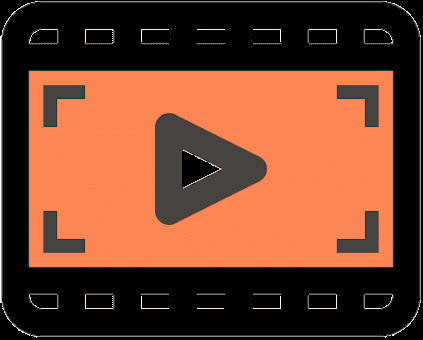
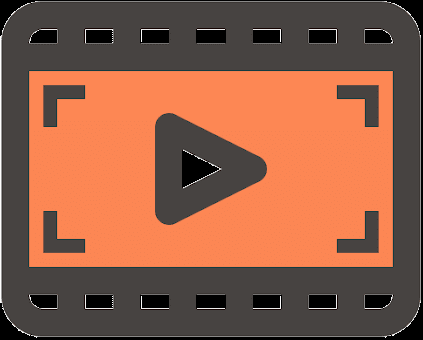
.

diff --git a/src/pages/Home.js b/src/pages/Home.js
@@ -8,16 +8,16 @@ function Home() {
             <div className='home__header A'>
                 <div className='home__headerLeft'>
                     {/* we use link not anchor tag because it does not refresh */}
-                    <img src="img.png" className="IMG" alt=""/>
+                    <img src="img-dark.png" className="IMG" alt=""/>
                     <Link to="/images">Images</Link>
-                    <img src="vid.png" className="IMG" alt=""/>
+                    <img src="vid-dark.png" className="IMG" alt=""/>
                     <Link to="/videos">Videos</Link>
                     
                 </div>
                 <div className='home__headerRight'>
-                    <img src="abt.png" className="IMG" alt=""/>
+                    <img src="abt-dark.png" className="IMG" alt=""/>
                     <Link to="/about">About</Link>
-                    <img src="contact.png" className="IMG" alt=""/>
+                    <img src="contact-dark.png" className="IMG" alt=""/>
                     <Link to="/contact">Contact</Link>
                 </div>
             </div>
